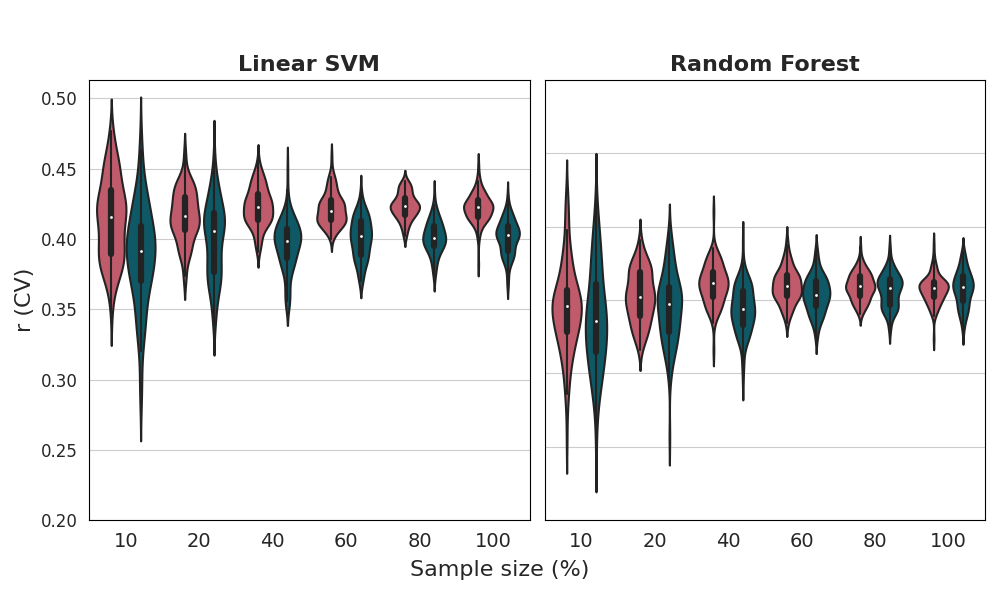
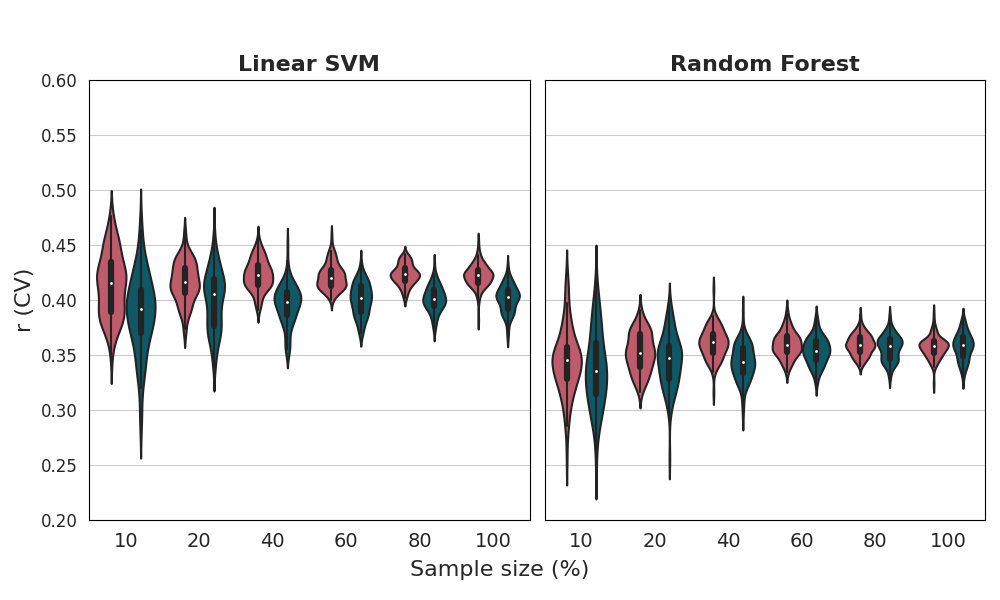
plot_jointplot_scatterplot_with_versus_without_bias_hgs on hold-out dataset

Changed region(s): [[0.031, 0.12, 0.992, 0.78], [0.031, 0.75, 0.527, 0.78], [0.651, 0.72, 0.682, 0.78]]

diff --git a/exec/4_samplesize_increasing_on_data/plot_boxplot_comparing_svm_rf_models_multi_samplesize_by_gender.py b/exec/4_samplesize_increasing_on_data/plot_boxplot_comparing_svm_rf_models_multi_samplesize_by_gender.py
@@ -84,26 +84,25 @@ for model_name in ["linear_svm", "random_forest"]:
         df_linear_svm = df_scores
     elif model_name == "random_forest":
         df_random_forest = df_scores
-# print("===== Done! =====")
-# embed(globals(), locals())
+print("===== Done! =====")
+embed(globals(), locals())
 ###############################################################################
-plot_folder = os.path.join(os.getcwd(), f"plots2/boxplots//{target}/{n_repeats}_repeats_{n_folds}_folds/{score_type}")
+plot_folder = os.path.join(os.getcwd(), f"plots3/boxplots//{target}/{n_repeats}_repeats_{n_folds}_folds/{score_type}")
 if(not os.path.isdir(plot_folder)):
         os.makedirs(plot_folder)
 plot_file = os.path.join(plot_folder, f"comparing_SVM_RF_models_multi_samplesize_by_gender_{target}.png")
 ###############################################################################
 # Create a custom color palette dictionary
 # Define custom palettes
-# palette_male = sns.color_palette("Blues")
-# palette_female = sns.color_palette("Reds")
-# custom_palette = {'Female': palette_female[5], 'Male': palette_male[5]}
-
-palette_male = sns.color_palette("dark")
+# palette_male = sns.color_palette("dark")
+palette_male = sns.color_palette("PuBuGn")
 palette_female = sns.color_palette("flare")
 color_female = palette_female[2]
 color_male = palette_male[9]
-custom_palette = {"Male": color_male, "Female": color_female}
 
+custom_palette = {"Male": color_male, "Female": color_female}
+print("===== Done! =====")
+embed(globals(), locals())
 ###############################################################################
 # Set the style once for all plots
 sns.set_style("whitegrid")
@@ -207,128 +206,3 @@ plt.close()
 print("===== Done! =====")
 embed(globals(), locals())
 ###############################################################################
-###############################################################################
-plot_folder = os.path.join(os.getcwd(), f"plots2/violinplots/{target}/{n_repeats}_repeats_{n_folds}_folds/{score_type}")
-if(not os.path.isdir(plot_folder)):
-        os.makedirs(plot_folder)
-plot_file = os.path.join(plot_folder, f"comparing_SVM_RF_models_multi_samplesize_by_gender_{target}.png")
-###############################################################################
-# Create a custom color palette dictionary
-# Define custom palettes
-# palette_male = sns.color_palette("Blues")
-# palette_female = sns.color_palette("Reds")
-# custom_palette = {'Female': palette_female[5], 'Male': palette_male[5]}
-
-
-palette_male = sns.color_palette("dark")
-palette_female = sns.color_palette("flare")
-color_female = palette_female[2]
-color_male = palette_male[9]
-
-custom_palette = {"Male": color_male, "Female": color_female}
-###############################################################################
-# Set the style once for all plots
-sns.set_style("whitegrid")
-fig, ax = plt.subplots(1, 2, figsize=(10, 6))
-# Plot the first boxplot on ax[0]
-# Plot the first violinplot on ax[0]
-sns.violinplot(data=df_linear_svm,
-            x="samplesize_percent",
-            y=test_score,  # Ensure y is passed as a string if it is a column name
-            hue="gender",
-            palette=custom_palette,
-            # linewidth=7,
-            # inner="box",
-            ax=ax[0],
-           )
-
-# Plot the second violinplot on ax[1]
-sns.violinplot(data=df_random_forest,
-            x="samplesize_percent",
-            y=test_score,  # Ensure y is passed as a string if it is a column name
-            hue="gender",
-            palette=custom_palette,
-            # linewidth=7,
-            # inner="box",
-            ax=ax[1],
-           )
-#-----------------------------------------------------------#
-# Format y-tick labels to one decimal place if they are round
-# Get x and y limits for the first subplot first row
-xmin0, xmax0 = ax[0].get_xlim()
-ymin0, ymax0 = ax[0].get_ylim()
-# Get x and y limits for the second subplot first row
-xmin1, xmax1 = ax[1].get_xlim()
-ymin1, ymax1 = ax[1].get_ylim()
-# Find the common y-axis limits
-ymin = min(ymin0, ymin1)
-ymax = max(ymax0, ymax1)
-
-# Set y-label based on score type
-# Set the y-ticks step value
-if score_type == "r2_score":
-    ystep_value = 0.025
-    # Calculate the range for y-ticks
-    yticks_range = np.arange(math.floor(ymin / 0.01) * 0.01, math.ceil(ymax / 0.01) * 0.01 , ystep_value)
-    y_lable = "R² (CV)"
-elif score_type == "r_score":
-    ystep_value = 0.05
-    # Calculate the range for y-ticks
-    yticks_range = np.arange(math.floor(ymin / 0.05) * 0.05, math.ceil(ymax / 0.05) * 0.05, ystep_value)
-    y_lable = "r (CV)"
-#-----------------------------------------------------------#
-# Set the y-ticks for both subplots
-ax[0].set_yticks(yticks_range)
-ax[1].set_yticks(yticks_range)
-#-----------------------------------------------------------#
-# Set the y-axis label with specified properties
-ax[0].set_ylabel(y_lable, fontsize=16)    
-ax[1].set_ylabel("")
-#-----------------------------------------------------------#    
-# Hide x-labels on the second subplot (using ax[1].set_yticklabels([]) to keep the style)
-ax[0].set_xlabel("")
-ax[1].set_xlabel("")
-#-----------------------------------------------------------#
-# Iterate over each subplot to change the font size for tick labels
-for axis in ax.flatten():
-    axis.tick_params(axis='both', labelsize=12, direction='out', length=5)
-#-----------------------------------------------------------#
-# set style for the axes
-new_xticks = ["10", "20", "40", "60", "80", "100"]
-for axes in [ax[0], ax[1]]:
-    axes.set_xticks(range(len(new_xticks)))  # Set tick positions
-    axes.set_xticklabels(new_xticks, fontsize=14)  # Set tick labels
-#-----------------------------------------------------------#
-# Axes titles
-ax[0].set_title("Linear SVM", fontsize=16, fontweight="bold")            
-ax[1].set_title("Random Forest", fontsize=16, fontweight="bold")
-#-----------------------------------------------------------#
-# Set the color of the plot's spines to black for both subplots
-for ax_subplot in ax:
-    for spine in ax_subplot.spines.values():
-        spine.set_color('black')
-#-----------------------------------------------------------#
-# Place legend outside the plot
-legend = fig.legend(title="Gender", title_fontsize='12', fontsize='10', bbox_to_anchor=(1.05, 1), loc='upper left')
-#-----------------------------------------------------------#
-# Remove legend from the axes
-for ax_subplot in ax:
-    ax_subplot.legend().remove()
-#-----------------------------------------------------------#
-# Set a common x-label
-fig.text(0.5, 0.04, 'Sample size (%)', ha='center', fontsize=16)
-#-----------------------------------------------------------#
-ax[0].set_box_aspect(1)
-ax[1].set_box_aspect(1)
-# Hide y-ticks on the second subplot (using ax[1].set_yticklabels([]) to keep the style)
-ax[1].set_yticklabels([])
-#-----------------------------------------------------------#
-plt.tight_layout()  # Adjust layout to fit x-label
-
-plt.show()
-plt.savefig(plot_file)
-plt.close()
-
-print("===== Done! =====")
-embed(globals(), locals())
-

diff --git a/exec/4_samplesize_increasing_on_data/plot_violinplot_comparing_svm_rf_models_multi_samplesize_by_gender.py b/exec/4_samplesize_increasing_on_data/plot_violinplot_comparing_svm_rf_models_multi_samplesize_by_gender.py
@@ -24,7 +24,6 @@ n_repeats = sys.argv[6]
 n_folds = sys.argv[7]
 data_set = sys.argv[8]
 score_type = sys.argv[9]
-preprocessing_condition = sys.argv[10]
 
 session = "0"
 ###############################################################################
@@ -86,20 +85,19 @@ for model_name in ["linear_svm", "random_forest"]:
         df_random_forest = df_scores
 
 ###############################################################################
-plot_folder = os.path.join(os.getcwd(), f"plots/violinplots/{preprocessing_condition}/{target}/{n_repeats}_repeats_{n_folds}_folds/{score_type}")
+plot_folder = os.path.join(os.getcwd(), f"plots2/violinplots/{target}/{n_repeats}_repeats_{n_folds}_folds/{score_type}")
 if(not os.path.isdir(plot_folder)):
         os.makedirs(plot_folder)
 plot_file = os.path.join(plot_folder, f"comparing_SVM_RF_models_multi_samplesize_by_gender_{target}.png")
 ###############################################################################
 # Create a custom color palette dictionary
 # Define custom palettes
-palette_male = sns.color_palette("Blues")
-palette_female = sns.color_palette("Reds")
-custom_palette = {'Female': palette_female[5], 'Male': palette_male[5]}
+palette_male = sns.color_palette("dark")
+palette_female = sns.color_palette("flare")
+color_female = palette_female[2]
+color_male = palette_male[9]
 
-# palette_male = sns.color_palette("Blues")
-# palette_female = sns.cubehelix_palette()
-# custom_palette = {'Female': palette_female[1], 'Male': palette_male[2]}
+custom_palette = {"Male": color_male, "Female": color_female}
 ###############################################################################
 # Set the style once for all plots
 sns.set_style("whitegrid")
